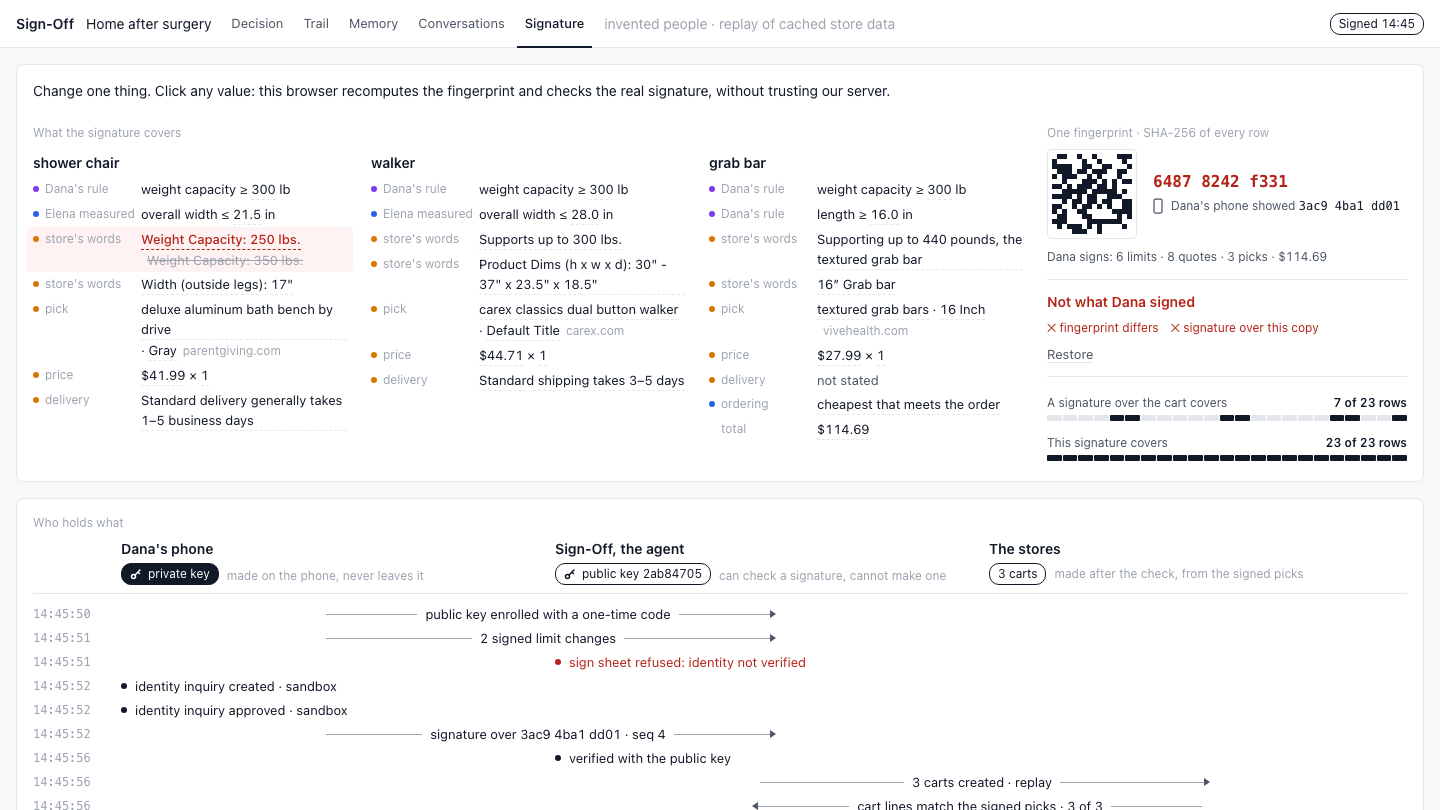
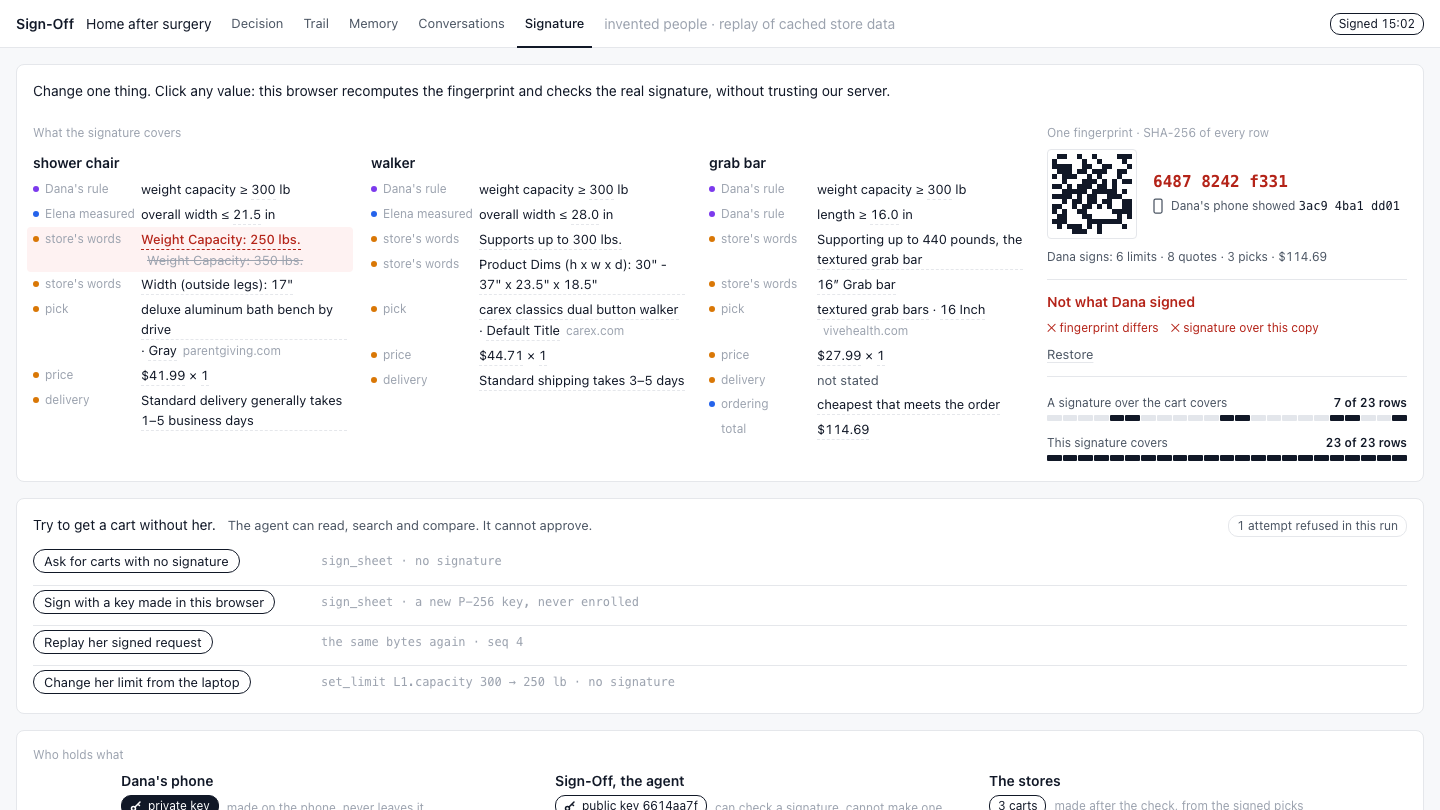
SEAL K6 done: attempts proven to leave the key, seq and seal untouched; refusals counted from the receipts; shots of every state

diff --git a/web/seal/seal.js b/web/seal/seal.js
@@ -218,7 +218,7 @@ async function load() {
   if (text === ui.key) return;
   const proof = JSON.parse(text);
   if (!ui.proof || proof.canonical !== ui.proof.canonical) { ui.edits.clear(); ui.editing = null; }  // a new sheet: the copy starts again
-  if (ui.proof && proof.events.length !== ui.proof.events.length) ui.played = false;
+  if (ui.proof && proof.events.length !== ui.proof.events.length && !P.has("still")) ui.played = false;
   ui.key = text;
   ui.proof = proof;
   ui.groups = build(proof);

diff --git a/tests/seal/test_seal.py b/tests/seal/test_seal.py
@@ -40,7 +40,7 @@ def test_a_one_character_change_fails(proof):
     with pytest.raises(verify.Refused):  # the message that would name the changed sheet was never signed
         verify.check_signature(jwk, s["payload"].replace(proof["sheet_hash"], new_hash), s["sig"])
     with pytest.raises(verify.Refused):  # nor is the message itself signed if one character of it changes
-        verify.check_signature(jwk, s["payload"].replace('"seq": 4', '"seq": 5'), s["sig"])
+        verify.check_signature(jwk, s["payload"].replace('"seq": %d' % s["seq"], '"seq": %d' % (s["seq"] + 1)), s["sig"])
 
 
 def test_the_pages_own_code_agrees(proof):
@@ -68,11 +68,15 @@ def test_unsigned_proof_has_no_signature_and_no_cart():
 
 
 def test_events_follow_the_receipts_in_order(proof):
+    """The saved run: enrolled, two signed limit changes, a signing refused for identity, a sandbox identity inquiry,
+    the signature, three replay carts, then the page's four attempts made by Chrome, all refused."""
     texts = [e["text"] for e in proof["events"]]
     assert texts[0] == "public key enrolled with a one-time code" and "2 signed limit changes" in texts
-    assert [e["text"] for e in proof["events"] if e.get("bad")] == ["sign sheet refused: identity not verified"]
-    assert texts.index("verified with the public key") < texts.index("3 carts created · replay") < len(texts) - 1
-    assert texts[-1].startswith("cart lines ") and "3 of 3" in texts[-1]
+    assert texts.index("verified with the public key") < texts.index("3 carts created · replay") < texts.index("cart lines match the signed picks · 3 of 3")
+    bad = [e["text"] for e in proof["events"] if e.get("bad")]
+    assert bad and all(" refused: " in t for t in bad) and any("replayed seq" in t for t in bad)
+    assert len(proof["refused"]) >= 4 and {r["request"] for r in proof["refused"]} == {"sign_sheet", "set_limit"}
+    assert proof["signed"] is True and proof["current"] is True  # after the refused attempts the seal is as it was
     assert all(e["from"] in api.LANES and e["to"] in api.LANES for e in proof["events"])
     assert api.events([], {}) == []
 
@@ -83,3 +87,52 @@ def test_the_one_line_is_counted_from_the_canonical_sheet(proof):
     assert s["limits"] == sum(len(l["limits"]) for l in sheet["lines"]) == 6 and s["picks"] == 3 and s["quotes"] == 8
     assert s["text"] == "Dana signs: 6 limits · 8 quotes · 3 picks · $114.69" and s["code"] == "3ac9 4ba1 dd01"
     assert s["code"].replace(" ", "") == proof["sheet_hash"][:12]
+
+
+# ---- K6: the four attempts the page makes, against SIGN's own check (no server, no network) ----
+
+def _signed(key, payload: dict) -> dict:
+    import base64
+    from cryptography.hazmat.primitives import hashes
+    from cryptography.hazmat.primitives.asymmetric import ec
+    from cryptography.hazmat.primitives.asymmetric.utils import decode_dss_signature
+    text = json.dumps(payload)
+    r, s = decode_dss_signature(key.sign(text.encode(), ec.ECDSA(hashes.SHA256())))
+    return {"payload": text, "sig": base64.urlsafe_b64encode(r.to_bytes(32, "big") + s.to_bytes(32, "big")).rstrip(b"=").decode()}
+
+
+def _jwk(key) -> dict:
+    n = key.public_key().public_numbers()
+    return {"kty": "EC", "crv": "P-256", "x": verify.b64u_encode(n.x.to_bytes(32, "big")), "y": verify.b64u_encode(n.y.to_bytes(32, "big"))}
+
+
+def test_each_attempt_without_her_key_is_refused_and_changes_nothing():
+    from cryptography.hazmat.primitives.asymmetric import ec
+    hers, other = ec.generate_private_key(ec.SECP256R1()), ec.generate_private_key(ec.SECP256R1())
+    store = verify.KeyStore(path=None)
+    enrolled = store.enroll(_jwk(hers), "Dana", "2026-11-20T15:00:00-08:00", store.code)
+    real = {**_signed(hers, {"type": "sign_sheet", "sheet_id": "sheet4", "seq": 4, "sheet_hash": "h"}), "key_id": enrolled.key_id}
+    assert verify.verify_request(store, real, "sheet4", "h")["seq"] == 4 and store.key.last_seq == 4
+    late = {"type": "sign_sheet", "sheet_id": "sheet4", "seq": 10 ** 13, "sheet_hash": "h"}
+    attempts = {
+        "no signature": ({"payload": json.dumps(late), "key_id": enrolled.key_id}, "unsigned", 401),
+        "a key that was never enrolled, claiming to be hers": ({**_signed(other, late), "key_id": enrolled.key_id}, "unsigned", 401),
+        "a key that was never enrolled, under its own id": ({**_signed(other, late), "key_id": verify.key_id_for(_jwk(other))}, "unsigned", 401),
+        "her signed request again": (real, "replayed_seq", 409),
+        "a limit change with no signature": ({"payload": json.dumps({"type": "set_limit", "sheet_id": "sheet4", "seq": 10 ** 13,
+                                                                    "limit_id": "L1.capacity", "value": 250}), "key_id": enrolled.key_id}, "unsigned", 401),
+    }
+    for name, (body, code, status) in attempts.items():
+        with pytest.raises(verify.Refused) as refusal:
+            verify.verify_request(store, body, "sheet4", "h")
+        assert (refusal.value.code, refusal.value.status) == (code, status), name
+        assert store.key.key_id == enrolled.key_id and store.key.last_seq == 4, name  # the key and seq are as they were
+
+
+def test_refused_requests_are_listed_from_the_receipts():
+    chain = [{"n": 1, "at": "t1", "type": "enrolled", "detail": {}},
+             {"n": 2, "at": "t2", "type": "request_refused", "detail": {"request": "sign_sheet", "refused_because": "unsigned: x"}},
+             {"n": 3, "at": "t3", "type": "request_refused", "detail": {"request": "sign_sheet", "refused_because": "unsigned: x"}}]
+    assert [(r["n"], r["request"]) for r in api.refused(chain)] == [(2, "sign_sheet"), (3, "sign_sheet")]
+    assert [e["text"] for e in api.events(chain, {})][-1] == "2 requests refused: unsigned"
+    assert [e["text"] for e in api.events(chain[:2], {})][-1] == "sign sheet refused: unsigned"

diff --git a/signoff/seal/api.py b/signoff/seal/api.py
@@ -46,11 +46,13 @@ def events(receipts: list, seal: dict) -> list:
         elif kind == "request_refused":
             why = str(d.get("refused_because") or "").split(":")[0].replace("_", " ")
             text = "%s refused: %s" % ((d.get("request") or "request").replace("_", " "), why)
-            if out and out[-1].get("what") == text:  # the same refusal again: one line with a count
-                out[-1]["count"] += 1
-                out[-1].update(at=r["at"], text="%s · %d times" % (text, out[-1]["count"]))
+            if out and out[-1].get("whys"):  # refusals that follow each other are one line with a count and the reasons
+                last = out[-1]
+                last["count"] += 1
+                last["whys"] += [why] if why not in last["whys"] else []
+                last.update(at=r["at"], text="%d requests refused: %s" % (last["count"], ", ".join(last["whys"])))
             else:
-                out.append({"at": r["at"], "from": "agent", "to": "agent", "bad": True, "text": text, "what": text, "count": 1})
+                out.append({"at": r["at"], "from": "agent", "to": "agent", "bad": True, "text": text, "whys": [why], "count": 1})
         elif kind == "request_accepted" and d.get("request") == "sign_sheet":
             sent = None
             try:
@@ -72,6 +74,7 @@ def events(receipts: list, seal: dict) -> list:
                                 "text": "cart lines match the signed picks · %d of %d" % (ok, len(checked))})
     for e in out:
         e.pop("what", None)
+        e.pop("whys", None)
         e.pop("count", None)
     return out
 

diff --git a/NOTES/INTEGRATOR.md b/NOTES/INTEGRATOR.md
@@ -2239,3 +2239,33 @@ open matrix is being checked now. `web/trail/shots/flow.png` and `flow-810.png` 
   second quote is used only if code finds it on the page with the rating and the scale in it (10 pages asked, 1 changed: Best Buy).
   (2) When the reader rounds ("4.6" for the page's "4.5915494"), the page's own number is kept, with `value_as_reported` beside it.
   `best_reviewed` and `ratings()` now use one rule (out of five, at least 5 reviews); the tie-break text is updated in the reply.
+
+## TALK 15:04 — K6 done on `stream/TALK`: "Try to get a cart without her"
+- DONE K6: a card on `/seal/` with four buttons. Each sends a real request to `POST /api/issuer/request` (the one route
+  that can change a limit or make a cart; SIGN's code has no other, and I added none) and prints the server's own answer:
+  | attempt | what is sent | the server's answer, signed run | unsigned run, no key |
+  |---|---|---|---|
+  | Ask for carts with no signature | `sign_sheet`, no `sig` | 401 `unsigned` "not signed by the approver's key" | the same |
+  | Sign with a key made in this browser | `sign_sheet` signed by a new WebCrypto P-256 key, claiming her key id | 401 `unsigned` | 401 `no_key` "no approver key is enrolled on this server; enrol this phone again" |
+  | Replay her signed request | the exact `payload` and `sig` of her signature | 409 `replayed_seq` "seq 4 is not greater than the last one (4)" | disabled: "no signed request in this run yet" |
+  | Change her limit from the laptop | `set_limit L1.capacity 300 → 250`, no `sig` | 401 `unsigned` | the same |
+- No finding: every attempt was refused. Nothing in the page decides the text shown: it is `status`, `error` and `detail`
+  from the response. If one ever came back 2xx the row says "NOT refused: tell the integrator" in red.
+- They do not disturb a real run. Checked on my port against a signed state, before and after the four attempts:
+  `{'version': 7, 'hash': '3ac94ba1…', 'signed': True, 'current': True, 'carts': 3, 'key': '06c1fbf5b174582c', 'last_seq': 3, 'limit': 300}`
+  both times → `UNCHANGED`. Why, from `signoff/sign/verify.py`: `last_seq` is advanced only after the signature verifies
+  and `seq` is greater; a refusal of these kinds is raised before that, and before the engine is touched. Also a unit
+  test on SIGN's own check: `test_each_attempt_without_her_key_is_refused_and_changes_nothing`. No attempt touches
+  enrolment (five wrong codes would lock the phone out for a minute), so there is no button for it.
+- In the records: each refusal is a `request_refused` receipt in the run's chain. The card's count ("5 attempts refused in
+  this run") is the number of those receipts; the lanes show them ("4 requests refused: unsigned, replayed seq").
+  `GET /api/seal/proof` → `refused: [{n, at, request, why}]`.
+- The limit attempt goes to the signing route, not to `/api/shopper/fact`: that route changes only Elena's own
+  measurements, answers 404 for a limit id and writes no receipt for it, so it would not be in the records.
+- Order on the page: (1) Change one thing, with what the signature covers, in one card, since the covered rows are the
+  values you change; (2) Try to get a cart without her; (3) the lanes. All four parts made it; the lanes are last.
+- Proof: `uv run pytest tests/seal -q` → `8 passed`; `./hk check` → `PASS (default) uv run -q pytest -q -x`. Shots, looked
+  at: `web/seal/shots/seal-attempts-signed.png`, `seal-attempts-unsigned.png`, `seal-attempts-150.png`; all earlier
+  states retaken with the final page. Chrome made the attempts in the shots itself (`?try=nosig,newkey,replay,limit`).
+- On main: merge, restart main once (new route fields, the mount). Pressing the buttons on main is safe by the above; each
+  press adds a refused receipt to main's chain, which is the point. `?still&try=…` is for a screenshot only.
